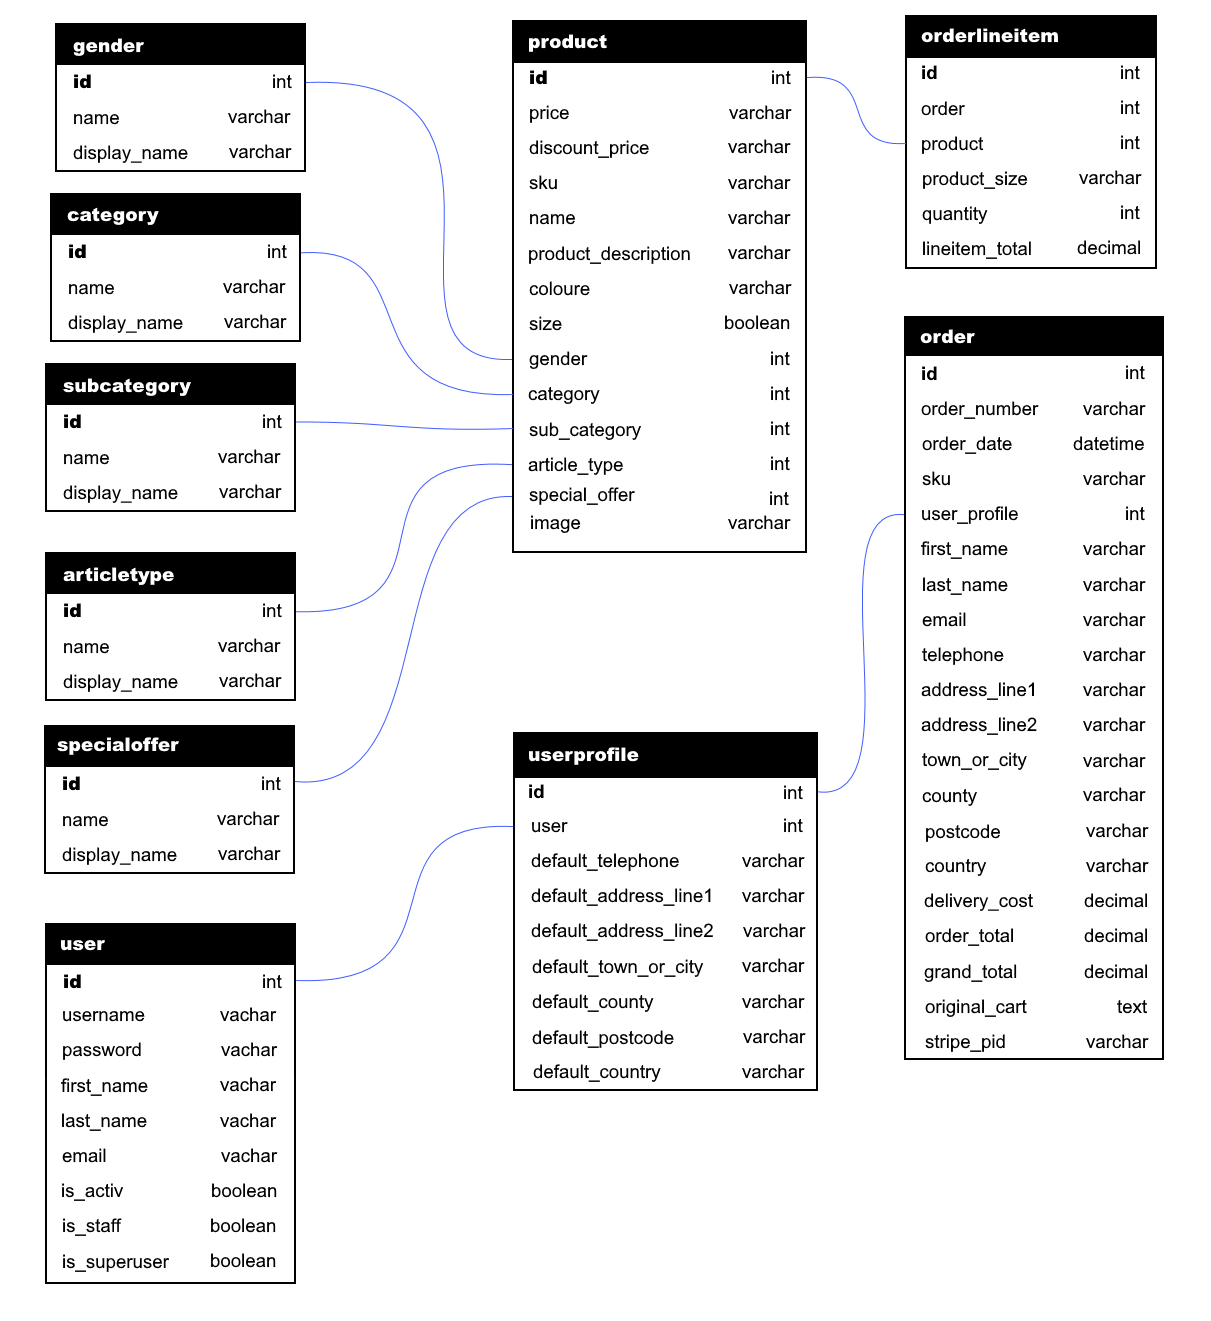
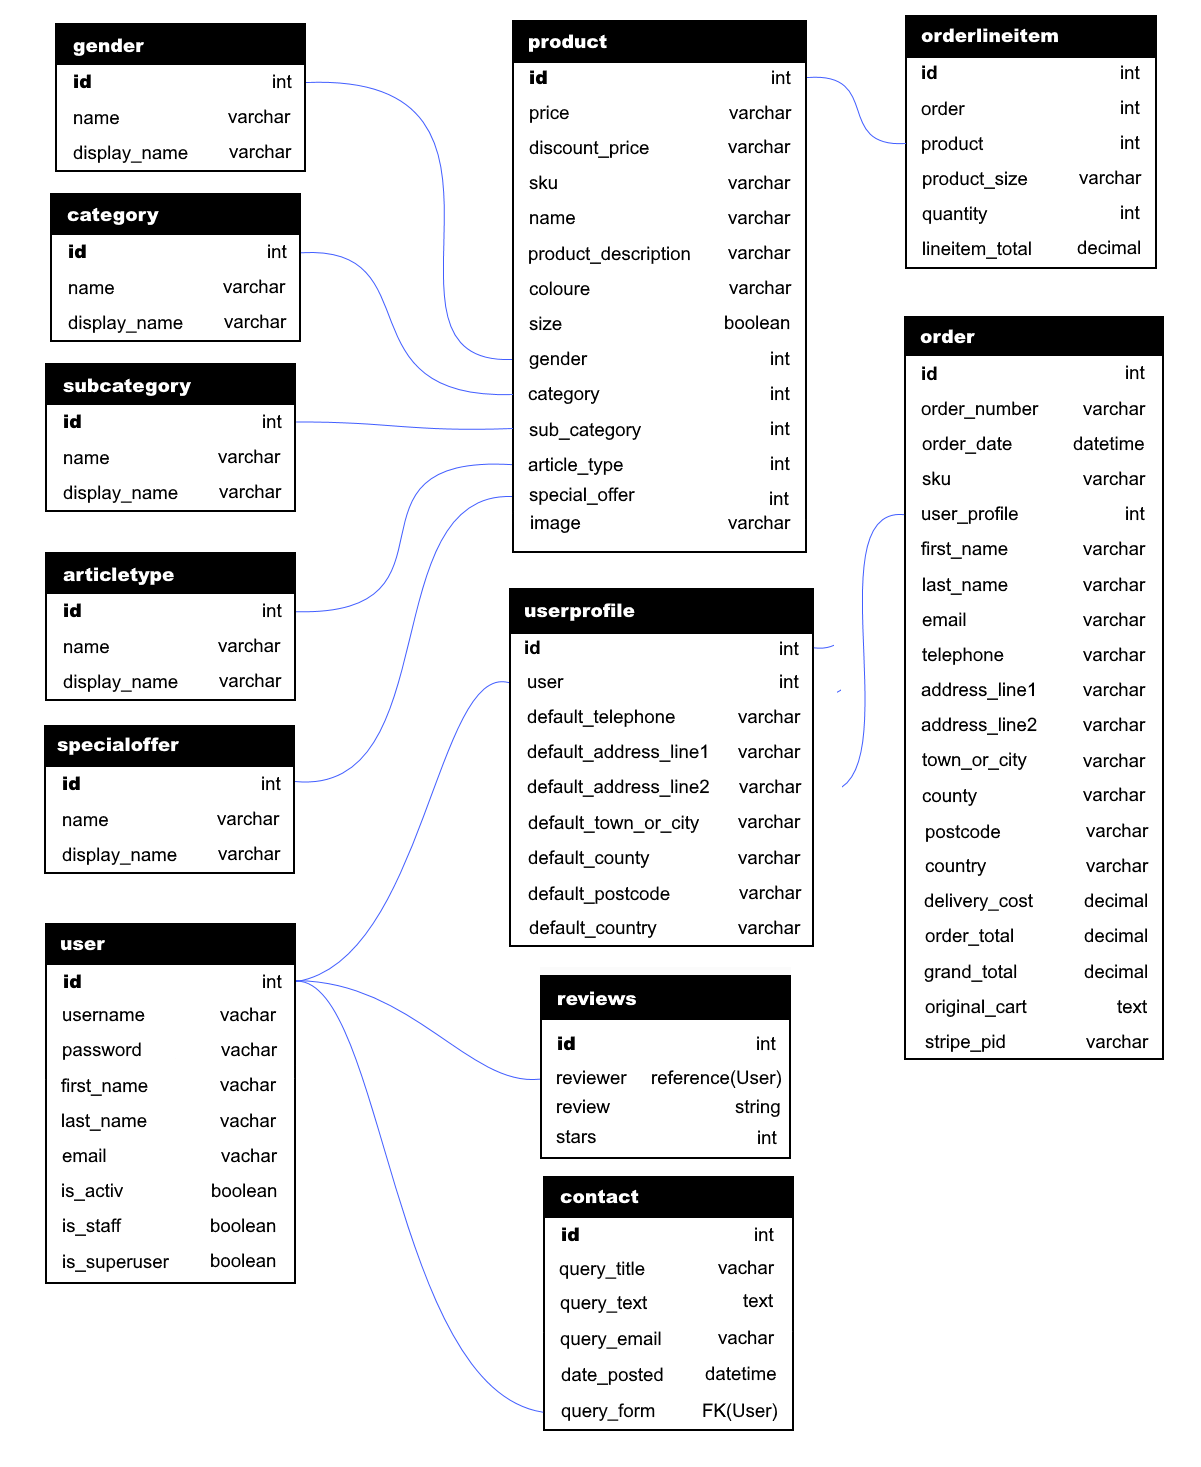
Docs: Updated database schema, unit testing and User Stories

diff --git a/README.md b/README.md
@@ -137,43 +137,46 @@ As a **shopper**,<br>
 4. I want to be able to see any product special offers, new arrivals and available deals, taking advantage of any reduced prices shown.
 5. I want to be able to see items I have placed in my shopping cart easily so that I can keep track of what I am buying
 6. I want to be able to see breadcrumb navigation links to see where I am on the site easily.
+7. I want to be able to contact the company.
 
 #### **Registration and User Accounts** ####
 
 As a **shopper**,<br>
 
-7. I want to be able to register for an account to make future purchases easier.
-8. I want to be able to easily log in and out of my account so that I can access my personal account information.
-9. I want to be able to receive and email requireing me to verify my email account to finish account registeration.
-10. I want to be able to log in and have a personal profile page containing my delivery details and order history.
-11. I want to be able to save and update my delivery information on my personal profile page.
+8. I want to be able to register for an account to make future purchases easier.
+9. I want to be able to easily log in and out of my account so that I can access my personal account information.
+10. I want to be able to receive and email requireing me to verify my email account to finish account registeration.
+11. I want to be able to log in and have a personal profile page containing my delivery details and order history.
+12. I want to be able to save and update my delivery information on my personal profile page.
+13. I want to be able to leave a review of the company and the recived product.
+
 
 #### **Sorting and Searching** ####
 
 As a **shopper**,<br>
 
-12. I want to be able to sort the available products by name, price, sub-category or product type.
-13. I want to be able to filter and group products for men and women.
-14. I want to be able to see how many products are available based on the sorting / filtering I have applied.
-15. I want to be able to search for a product by name, type or sub-category.
+14. I want to be able to sort the available products by name, price, sub-category or product type.
+15. I want to be able to filter and group products for men and women.
+16. I want to be able to see how many products are available based on the sorting / filtering I have applied.
+17. I want to be able to search for a product by name, type or sub-category.
 
 #### **Purchasing and Checkout** ####
 
 As a **shopper**,<br>
 
-16. I want to be able to easily select the size and quantity of a product when adding it to the shopping cart.
-17. I want to be able to view the items in my shopping cart waiting to be purchased, seeing the sub-total, delivery costs and grand total amounts.
-18. I want to be able to easily update the items in the shopping cart by changing the quantities of products or remove them from the cart.
-19. I want to be able to checkout securely where I can enter my delivery and credit card payment details with confidence.
-20. I want to be able to view an order confirmation page as well as receive and email order confirmation once the transaction has succeeded.
+18. I want to be able to easily select the size and quantity of a product when adding it to the shopping cart.
+19. I want to be able to view the items in my shopping cart waiting to be purchased, seeing the sub-total, delivery costs and grand total amounts.
+20. I want to be able to easily update the items in the shopping cart by changing the quantities of products or remove them from the cart.
+21. I want to be able to checkout securely where I can enter my delivery and credit card payment details with confidence.
+22. I want to be able to view an order confirmation page as well as receive and email order confirmation once the transaction has succeeded.
 
 #### **Admin and Store Management** ###
 
 As a **store owner**,
 
-21. I want to be able to add new products to my store.
-22. I want to be able to edit / update the current product details and replace the product image file.
-23. I want to be able to delete a product that is no longer for sale.
+23. I want to be able to add new products to my store.
+24. I want to be able to edit / update the current product details and replace the product image file.
+25. I want to be able to delete a product that is no longer for sale.
 
 [Back to Table of contents](#table-of-contents)
 
@@ -344,22 +347,24 @@ Features
 | User Story ID | Features Implemented |
 | --- | --- |
 | 1 | The Products page shows a full list of products with a product image, name, price and sub-category labels. The products are displayed in a grid format with 4 columns on larger displays and reducing down to 1 column on mobile displays. |
-| 2, 4 & 13 | The navbar allows users to filter the products by gender, sub-category and article type as well as special offers categories. The navbar menus are arranged to provide quick access to defined sorting criteria to assist the user to quickly find the types of products they want. |
+| 2, 4 & 15 | The navbar allows users to filter the products by gender, sub-category and article type as well as special offers categories. The navbar menus are arranged to provide quick access to defined sorting criteria to assist the user to quickly find the types of products they want. |
 | 3 | Each product image in the Products page can be clicked to open the item product page selected. The product page includes all the same information as the Products page, but includes a quantity selector and a size selector, as well as allowing the user to return to the main products page or add the item to the shopping cart. |
-| 5 & 17 | The user can click the shopping cart icon in the top right corner of the navbar to be taken to the cart page where each shopping cart item is listed with a product image, product details, unit price, quantity selector and a sub-total column. A toast message pop-up window appears each time the user adds an item to the shopping cart as a secondary way to easily keep track of the items to be purchased. Delivery cost and grand total amounts are also displayed on the shopping cart page. |
+| 5 & 19 | The user can click the shopping cart icon in the top right corner of the navbar to be taken to the cart page where each shopping cart item is listed with a product image, product details, unit price, quantity selector and a sub-total column. A toast message pop-up window appears each time the user adds an item to the shopping cart as a secondary way to easily keep track of the items to be purchased. Delivery cost and grand total amounts are also displayed on the shopping cart page. |
 | 6 | The breadcrumbs navigation links are shown just below the delivery banner in the upper left corner of the main page block. They show the current page and provide navigation links back to the Home page or other related pages. |
-| 7 & 9 | Users can click the My Account link in the navbar and select Register from the dropdown menu. The user is directed to the Sign-Up page where they must enter their email address, username and a password. An email is sent to the user to verify the account email address before registration is complete.  |
-| 8 | Users can click the My Account link in the navbar and select Log In from the dropdown menu. The user is directed to the Log In page where they must enter their username and a password. Once logged in, users can click the My Account link in the navbar and select Logout from the dropdown menu.  |
-| 10 & 11 | Users who are logged in can click the My Account link in the navbar and select My Profile from the dropdown menu. The user is directed to the My Profile page where they can see their saved delivery details and order history records. Users can update and save their details from the My Profile page.|
-| 12 | A sorting selector is available on the Products page with a number of sorting options to list the products in both ascending and descending order. |
-| 14 | The products page displays the total number of products returned by the search query. |
-| 15 | The navbar has a search box visible on larger displays or can be revealed when tapping the search icon on mobile displays. The user can search for a product by name, type or sub-category. |
-| 16 | Users can select the size and the quantity from the individual product page when adding the item to the shopping cart. |
-| 18 | Items in the shopping cart can have their individual quantities updated between 1 and 99 or remove the item if no longer needed. |
-| 19 | Secure checkout and payment is provided by the integrated Stripe online credit card payment system. |
-| 20 | Once an order is completed, the user is shown an order confirmation page detailing the order information, order details, delivery address and billing information. |
-| 21 | Logged in store owners (admin / super users) have access to a Product Management page where new products can be added. |
-| 22 & 23 | Logged in store owners (admin / super users) have access to edit and delete buttons for all products on the site. The edit button opens and edit product page where the store owner can update the product details. |
+| 7 | Users can click the Contact Us here link in the footer section. The user is directed to the Contact Us page where they must enter a title, a message and their email address. A toast success or error message pop-up window appears, when the user submited the filled out form. |
+| 8 & 10 | Users can click the My Account link in the navbar and select Register from the dropdown menu. The user is directed to the Sign-Up page where they must enter their email address, username and a password. An email is sent to the user to verify the account email address before registration is complete. |
+| 9 | Users can click the My Account link in the navbar and select Log In from the dropdown menu. The user is directed to the Log In page where they must enter their username and a password. Once logged in, users can click the My Account link in the navbar and select Logout from the dropdown menu.|
+| 11 & 12 | Users who are logged in can click the My Account link in the navbar and select My Profile from the dropdown menu. The user is directed to the My Profile page where they can see their saved delivery details and order history records. Users can update and save their details from the My Profile page.|
+| 13 |  Users can click the See all Reviews button on the home page. The user is directed to the Customer Reviews page. At the top is a Add or Edit Review form section for registerd users. Below is a section that displays all the customer reviews. |
+| 14 | A sorting selector is available on the Products page with a number of sorting options to list the products in both ascending and descending order. |
+| 16 | The products page displays the total number of products returned by the search query. |
+| 17 | The navbar has a search box visible on larger displays or can be revealed when tapping the search icon on mobile displays. The user can search for a product by name, type or sub-category. |
+| 18 | Users can select the size and the quantity from the individual product page when adding the item to the shopping cart. |
+| 20 | Items in the shopping cart can have their individual quantities updated between 1 and 99 or remove the item if no longer needed. |
+| 21 | Secure checkout and payment is provided by the integrated Stripe online credit card payment system. |
+| 22 | Once an order is completed, the user is shown an order confirmation page detailing the order information, order details, delivery address and billing information. |
+| 23 | Logged in store owners (admin / super users) have access to a Product Management page where new products can be added. |
+| 24 & 25 | Logged in store owners (admin / super users) have access to edit and delete buttons for all products on the site. The edit button opens and edit product page where the store owner can update the product details. |
 
 ### **CRUD Functionality** ###
 
@@ -656,6 +661,8 @@ Acknowledgements
 
 - [Code Institute](https://codeinstitute.net/full-stack-software-development-diploma/) Course material - in particular the Boutique Ado Django mini project
 - [Simon Vardy](https://github.com/simonjvardy) for code snippets and README.md content.
+- [Brian Whelan Dublin](https://github.com/BrianWhelanDublin) for code snippets.
+- [auxfuse](https://github.com/auxfuse) for code snippets.
 - [Bootstrap v4.6](https://getbootstrap.com/docs/4.6/getting-started/introduction/) Documentation and code snippets used to build most of the templates
 
 
